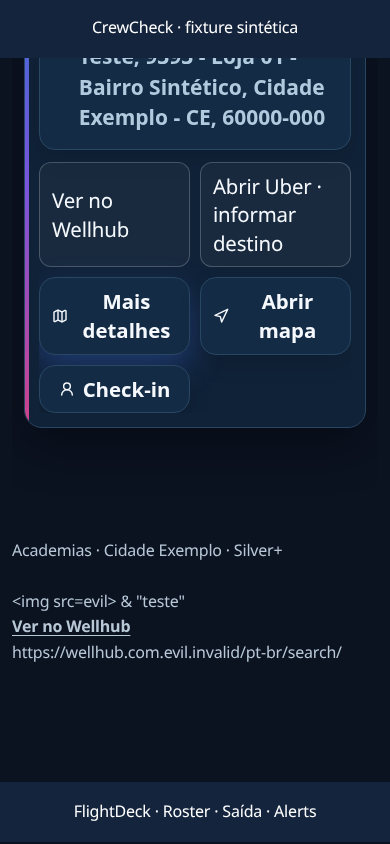
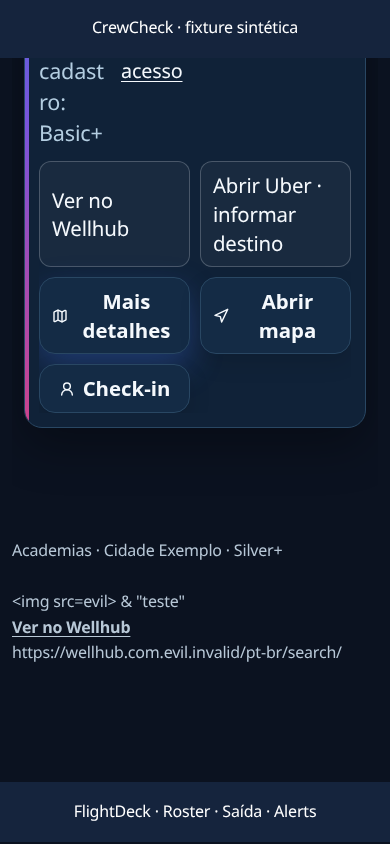
fix(wellhub): preserve visible plan and expandable access conditions

diff --git a/client/src/styles/wellhub-hours.css b/client/src/styles/wellhub-hours.css
@@ -89,3 +89,6 @@
 .cc-wellhub-results .cz-tool-actions { grid-template-columns: repeat(2,minmax(0,1fr)) !important; }
 .cc-wellhub-results .cz-tool-actions > a { text-decoration: none !important; border: 1px solid color-mix(in srgb,currentColor 22%,transparent) !important; background: color-mix(in srgb,currentColor 4%,transparent) !important; color: inherit !important; }
 @media(min-width:680px) { .cc-wellhub-results .cz-tool-actions { grid-template-columns: repeat(3,minmax(0,1fr)) !important; } }
+.cc-wellhub-card-access { font-size: .825rem; line-height: 1.5; }
+.cc-wellhub-card-access summary { min-height: 44px; display: flex; align-items: center; cursor: pointer; text-decoration: underline; text-underline-offset: 3px; }
+.cc-wellhub-card-access p { margin: 6px 0; overflow-wrap: anywhere; }

diff --git a/docs/wellhub-hours-layout-review.md b/docs/wellhub-hours-layout-review.md
@@ -124,3 +124,9 @@ Nota: os feriados/dias de possível exceção listados são uma proteção conse
 não cadastro legal completo de feriados. Interfaces não usam essa lista para
 confirmar abertura especial; datas locais fora da lista continuam dependentes
 de confirmação direta na unidade/Wellhub, conforme aviso do catálogo.
+
+Os cartões mostram o plano mínimo pelo cadastro e oferecem "Condições de acesso"
+expansível para preservar a nota integral sem crescer permanentemente. A fixture
+abre condições de agendamento e confirma que o parágrafo expandido fica antes
+das ações, sem sobreposição. Mais detalhes conserva a fonte/datamento e as notas
+já existentes do detalhe da unidade. Não há confirmação de acesso atual.
